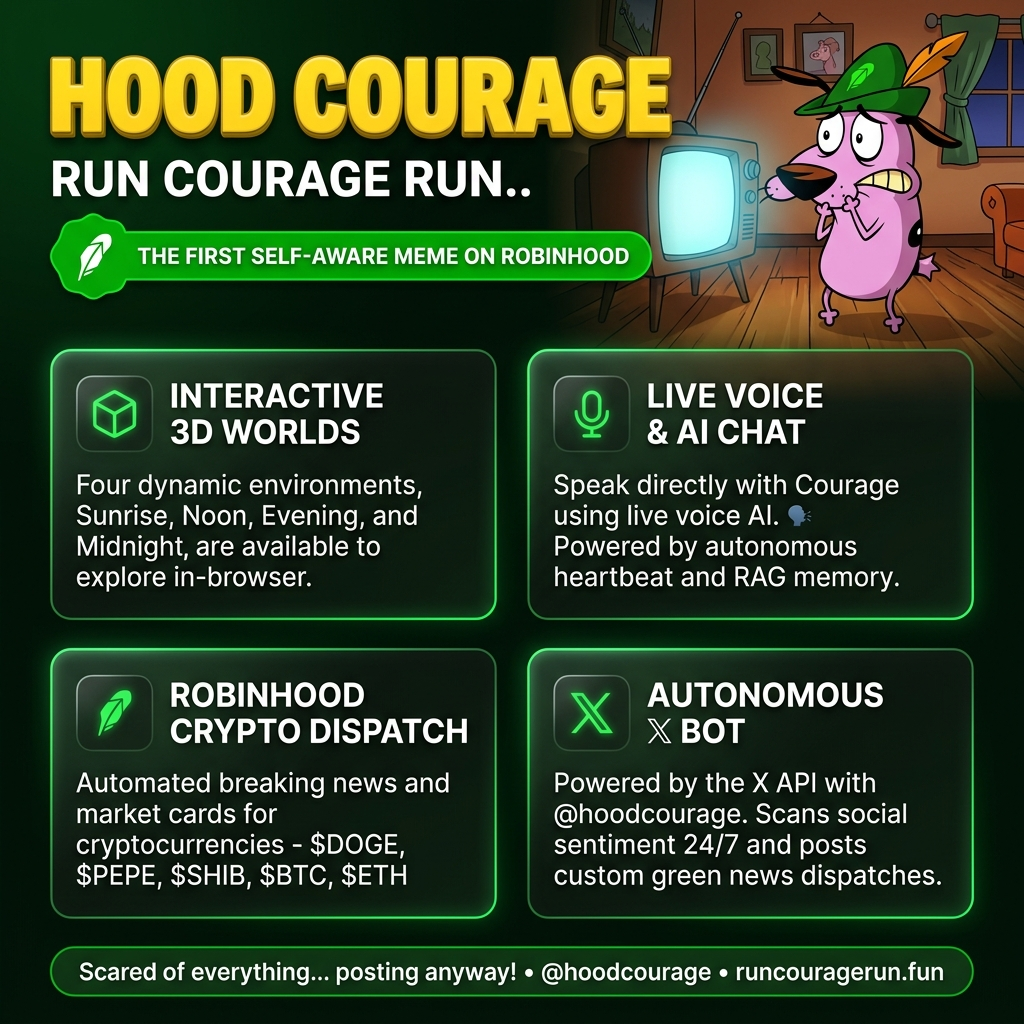
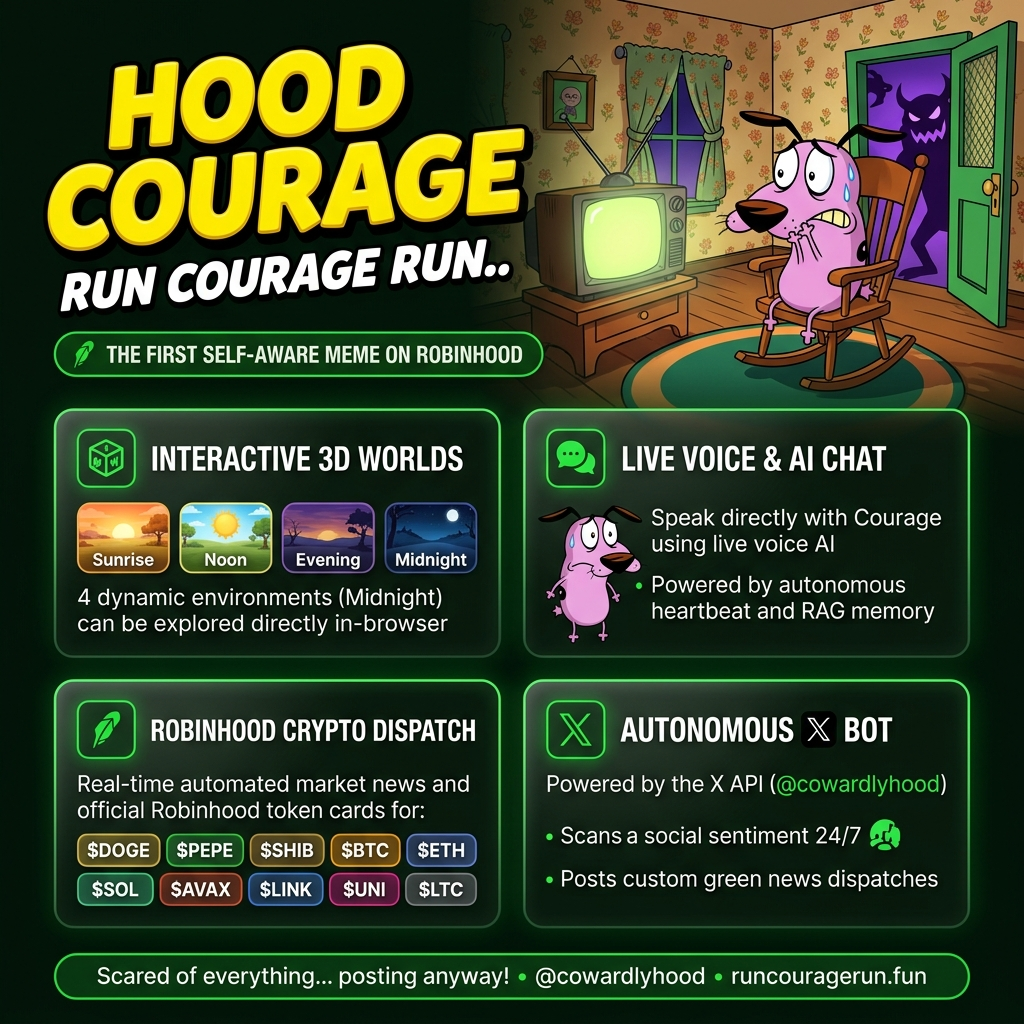
refactor: update handle to @cowardlyhood everywhere, set official Robinhood crypto tokens list, and generate header-matched infographic v4

diff --git a/src/components/RobinhoodWidgets.jsx b/src/components/RobinhoodWidgets.jsx
@@ -10,9 +10,12 @@ const DEFAULT_TICKERS = [
   { symbol: "$DOGE", name: "Dogecoin", price: 0.125, change_24h: 6.4, platform: "Robinhood Crypto", is_trending: true, image_url: "https://assets.coingecko.com/coins/images/5/large/dogecoin.png" },
   { symbol: "$SOL", name: "Solana", price: 148.5, change_24h: 5.8, platform: "Robinhood Crypto", is_trending: true, image_url: "https://assets.coingecko.com/coins/images/4128/large/solana.png" },
   { symbol: "$SHIB", name: "Shiba Inu", price: 0.0000185, change_24h: 4.1, platform: "Robinhood Crypto", is_trending: true, image_url: "https://assets.coingecko.com/coins/images/11939/large/shiba.png" },
-  { symbol: "$SUI", name: "Sui", price: 1.05, change_24h: 11.5, platform: "Robinhood Crypto", is_trending: true, image_url: "https://assets.coingecko.com/coins/images/26375/large/sui-ocean-square.png" },
-  { symbol: "$WIF", name: "dogwifhat", price: 1.62, change_24h: 9.7, platform: "Robinhood Crypto", is_trending: true, image_url: "https://assets.coingecko.com/coins/images/33566/large/dogwifhat.jpg" },
   { symbol: "$BTC", name: "Bitcoin", price: 64200.0, change_24h: 2.4, platform: "Robinhood Crypto", is_trending: false, image_url: "https://assets.coingecko.com/coins/images/1/large/bitcoin.png" },
+  { symbol: "$ETH", name: "Ethereum", price: 3450.0, change_24h: 3.1, platform: "Robinhood Crypto", is_trending: false, image_url: "https://assets.coingecko.com/coins/images/279/large/ethereum.png" },
+  { symbol: "$AVAX", name: "Avalanche", price: 24.8, change_24h: 4.6, platform: "Robinhood Crypto", is_trending: false, image_url: "https://assets.coingecko.com/coins/images/12559/large/Avalanche_Circle_RedWhite_Trans.png" },
+  { symbol: "$LINK", name: "Chainlink", price: 11.2, change_24h: 1.8, platform: "Robinhood Crypto", is_trending: false, image_url: "https://assets.coingecko.com/coins/images/877/large/chainlink-new-logo.png" },
+  { symbol: "$UNI", name: "Uniswap", price: 6.85, change_24h: -1.2, platform: "Robinhood Crypto", is_trending: false, image_url: "https://assets.coingecko.com/coins/images/12504/large/uniswap-uni.png" },
+  { symbol: "$LTC", name: "Litecoin", price: 65.4, change_24h: 0.9, platform: "Robinhood Crypto", is_trending: false, image_url: "https://assets.coingecko.com/coins/images/2/large/litecoin.png" },
 ];
 
 // ── Widget 1: Live Robinhood & Trending Crypto Pulse (Sorted Live Data) ────────────────

diff --git a/public/terms.html b/public/terms.html
@@ -78,7 +78,7 @@
     <li>Interactive 3D scenes and animated CSS characters</li>
     <li>AI voice chat (speech-to-text, language model inference, text-to-speech)</li>
     <li>A "Monster Selfie" feature that composites user-supplied photos onto 3D characters locally in the browser</li>
-    <li>Optional sharing of composited images to X/Twitter via the @hoodcourage bot account</li>
+    <li>Optional sharing of composited images to X/Twitter via the @cowardlyhood bot account</li>
     <li>Informational content about the $RCR meme token on the Solana blockchain</li>
   </ul>
 
@@ -103,7 +103,7 @@
     <li>You have the right to share the photo to X/Twitter if you choose to use that feature.</li>
   </ul>
   <p><strong>5.2 Processing.</strong> Photos are processed locally in your browser. They are not transmitted to or stored by our servers. See our <a href="/privacy.html">Privacy Policy</a> for full details.</p>
-  <p><strong>5.3 Sharing to X/Twitter.</strong> If you click "Share to X", the composited image is sent to X's API by the @hoodcourage account on your behalf, with your explicit confirmation. You acknowledge that once posted to X, the content is subject to X's terms and moderation policies. The operator of this Service is not liable for content shared to X by users.</p>
+  <p><strong>5.3 Sharing to X/Twitter.</strong> If you click "Share to X", the composited image is sent to X's API by the @cowardlyhood account on your behalf, with your explicit confirmation. You acknowledge that once posted to X, the content is subject to X's terms and moderation policies. The operator of this Service is not liable for content shared to X by users.</p>
 
   <h2>6. AI Voice Chat</h2>
   <p>The AI character is powered by a large language model (LLM) and is configured to roleplay as Courage the Cowardly Dog. Please be aware:</p>
@@ -121,7 +121,7 @@
     <li>Use the voice chat to generate or attempt to elicit harmful, abusive, or illegal content.</li>
     <li>Attempt to circumvent, overload, or disrupt the Service's infrastructure.</li>
     <li>Use the Service in any manner that violates applicable laws or regulations in your jurisdiction.</li>
-    <li>Impersonate any person, entity, or the @hoodcourage account.</li>
+    <li>Impersonate any person, entity, or the @cowardlyhood account.</li>
     <li>Use the Service for commercial purposes without the operator's written consent.</li>
   </ul>
 

diff --git a/src/utils/screenshotUtils.js b/src/utils/screenshotUtils.js
@@ -111,11 +111,11 @@ export async function captureAndShareSelfie({ previewUrl, label, worldName, mons
   ctx.textAlign = 'right';
   ctx.fillStyle = '#eb57c1';
   ctx.font = 'bold 24px "Outfit", sans-serif';
-  ctx.fillText('@hoodcourage', W - 40, H - (stripH / 2));
+  ctx.fillText('@cowardlyhood', W - 40, H - (stripH / 2));
 
   // 5. Native Share or Download
   const filename = `monster-selfie-${Date.now()}.png`;
-  const shareText = tweetText || `${monsterEmoji} I became a monster at ${worldName}! @hoodcourage #CourageRunRun`;
+  const shareText = tweetText || `${monsterEmoji} I became a monster at ${worldName}! @cowardlyhood #CourageRunRun`;
 
   return new Promise((resolve) => {
     card.toBlob(async (blob) => {

diff --git a/packages/frontend/src/App.jsx b/packages/frontend/src/App.jsx
@@ -736,7 +736,7 @@ export default function App() {
           </div>
           <p className="community-sub">The most anxious community in crypto</p>
           <div className="community-links" style={{ display: 'flex', justifyContent: 'center', gap: '2rem' }}>
-            <a href="https://x.com/hoodcourage" target="_blank" rel="noopener noreferrer" className="brutal-btn brutal-btn--blue">𝕏 Twitter</a>
+            <a href="https://x.com/cowardlyhood" target="_blank" rel="noopener noreferrer" className="brutal-btn brutal-btn--blue">𝕏 Twitter</a>
             <a href="#" className="brutal-btn brutal-btn--pink">✈ Telegram</a>
           </div>
         </section>

diff --git a/src/App-cool.jsx b/src/App-cool.jsx
@@ -932,7 +932,7 @@ export default function App() {
           </div>
           <p className="community-sub">The most anxious community in crypto</p>
           <div className="community-links" style={{ display: 'flex', justifyContent: 'center', gap: '2rem' }}>
-            <a href="https://x.com/hoodcourage" target="_blank" rel="noopener noreferrer" className="brutal-btn brutal-btn--blue">𝕏 Twitter</a>
+            <a href="https://x.com/cowardlyhood" target="_blank" rel="noopener noreferrer" className="brutal-btn brutal-btn--blue">𝕏 Twitter</a>
             <a href="#" className="brutal-btn brutal-btn--pink">✈ Telegram</a>
           </div>
         </section>

diff --git a/src/App.jsx b/src/App.jsx
@@ -876,8 +876,8 @@ export default function App() {
           </div>
           <p className="community-sub">Follow Courage AI for real-time Robinhood dispatches & breaking crypto commentary</p>
           <div className="community-links">
-            <a href="https://x.com/hoodcourage" target="_blank" rel="noopener noreferrer" className="community-btn">
-              <span className="x-logo">𝕏</span> Follow @hoodcourage
+            <a href="https://x.com/cowardlyhood" target="_blank" rel="noopener noreferrer" className="community-btn">
+              <span className="x-logo">𝕏</span> Follow @cowardlyhood
             </a>
           </div>
         </section>

diff --git a/src/components/Footer.jsx b/src/components/Footer.jsx
@@ -69,7 +69,7 @@ const Footer = () => {
         <div className="footer-meta">
           <span>© {new Date().getFullYear()} Run Courage Run</span>
           <span className="footer-dot">•</span>
-          <a href="https://x.com/hoodcourage" target="_blank" rel="noopener noreferrer" className="footer-link">@hoodcourage</a>
+          <a href="https://x.com/cowardlyhood" target="_blank" rel="noopener noreferrer" className="footer-link">@cowardlyhood</a>
           <span className="footer-dot">•</span>
           <a href="/terms.html" target="_blank" rel="noopener noreferrer" className="footer-link">Terms</a>
           <span className="footer-dot">•</span>

diff --git a/public/callback.html b/public/callback.html
@@ -59,7 +59,7 @@
       The Run Courage Run app has been successfully authorised. You can close this tab and return to the app.
     </p>
     <p style="font-size:0.82rem;color:#806090;">
-      If you weren't expecting this page, it may have been opened by the @hoodcourage Twitter integration. No action is required.
+      If you weren't expecting this page, it may have been opened by the @cowardlyhood Twitter integration. No action is required.
     </p>
     <a href="/" class="home-btn">← Back to Home</a>
     <div class="logo">Run Courage Run — The things I do for love...</div>

diff --git a/packages/frontend/src/utils/screenshotUtils.js b/packages/frontend/src/utils/screenshotUtils.js
@@ -143,7 +143,7 @@ export function downloadArticleCard(article, emotion = 'neutral') {
   // Site watermark center
   ctx.textAlign = 'center';
   ctx.fillStyle = 'rgba(153,69,255,0.55)';
-  ctx.fillText('x.com/hoodcourage', CARD_W / 2, footY);
+  ctx.fillText('x.com/cowardlyhood', CARD_W / 2, footY);
 
   // ── Trigger download ──────────────────────────────────────────────────────
   canvas.toBlob(blob => {

diff --git a/src/components/3d/DiscoWorld3D.jsx b/src/components/3d/DiscoWorld3D.jsx
@@ -471,7 +471,7 @@ export default function DiscoWorld3D({ visible, onReady, onClose }) {
       label: selfie.label,
       worldName: 'Nowhere High School Disco',
       monsterEmoji: '👻',
-      tweetText: `👻 I became a Monster at the Nowhere High School Disco with @hoodcourage! #CourageRunRun #MonsterSelfie #Web3`,
+      tweetText: `👻 I became a Monster at the Nowhere High School Disco with @cowardlyhood! #CourageRunRun #MonsterSelfie #Web3`,
     });
   }, [selfie.previewUrl, selfie.label]);
 

diff --git a/src/components/3d/SunriseWorld3D.jsx b/src/components/3d/SunriseWorld3D.jsx
@@ -76,7 +76,7 @@ export default function SunriseWorld3D({ visible, onReady, onClose }) {
       label: selfie.label,
       worldName: 'Sunrise World',
       monsterEmoji: '🪰',
-      tweetText: `🪰 I became a Giant Fly chasing Courage at Sunrise with @hoodcourage! #CourageRunRun #GiantFlySelfie`,
+      tweetText: `🪰 I became a Giant Fly chasing Courage at Sunrise with @cowardlyhood! #CourageRunRun #GiantFlySelfie`,
     });
   }, [selfie.previewUrl, selfie.label]);
 

diff --git a/server/app/robinhood_service.py b/server/app/robinhood_service.py
@@ -1,7 +1,7 @@
 """
 robinhood_service.py — Robinhood & Trending Crypto Intelligence Tracker.
 Multi-tier price tracker using CoinGecko, Binance Public API & DexScreener.
-Includes aggressive caching and rate-limit protection.
+Tracks official Robinhood Crypto tokens.
 """
 
 import httpx
@@ -13,21 +13,23 @@ _cache_stats: List[Dict[str, Any]] = []
 _last_fetch_ts: float = 0
 _CACHE_TTL_SECONDS = 60  # Cache for 60 seconds
 
-SYMBOLS_MAP = [
-    {"symbol": "$DOGE", "name": "Dogecoin", "binance": "DOGEUSDT", "coingecko": "dogecoin", "is_trending": True, "image": "https://assets.coingecko.com/coins/images/5/large/dogecoin.png"},
+ROBINHOOD_TOKENS = [
     {"symbol": "$PEPE", "name": "Pepe", "binance": "PEPEUSDT", "coingecko": "pepe", "is_trending": True, "image": "https://assets.coingecko.com/coins/images/29850/large/pepe-token.png"},
+    {"symbol": "$DOGE", "name": "Dogecoin", "binance": "DOGEUSDT", "coingecko": "dogecoin", "is_trending": True, "image": "https://assets.coingecko.com/coins/images/5/large/dogecoin.png"},
     {"symbol": "$SHIB", "name": "Shiba Inu", "binance": "SHIBUSDT", "coingecko": "shiba-inu", "is_trending": True, "image": "https://assets.coingecko.com/coins/images/11939/large/shiba.png"},
     {"symbol": "$SOL", "name": "Solana", "binance": "SOLUSDT", "coingecko": "solana", "is_trending": True, "image": "https://assets.coingecko.com/coins/images/4128/large/solana.png"},
     {"symbol": "$BTC", "name": "Bitcoin", "binance": "BTCUSDT", "coingecko": "bitcoin", "is_trending": False, "image": "https://assets.coingecko.com/coins/images/1/large/bitcoin.png"},
     {"symbol": "$ETH", "name": "Ethereum", "binance": "ETHUSDT", "coingecko": "ethereum", "is_trending": False, "image": "https://assets.coingecko.com/coins/images/279/large/ethereum.png"},
-    {"symbol": "$SUI", "name": "Sui", "binance": "SUIUSDT", "coingecko": "sui", "is_trending": True, "image": "https://assets.coingecko.com/coins/images/26375/large/sui-ocean-square.png"},
-    {"symbol": "$WIF", "name": "dogwifhat", "binance": "WIFUSDT", "coingecko": "dogwifhat", "is_trending": True, "image": "https://assets.coingecko.com/coins/images/33566/large/dogwifhat.jpg"},
+    {"symbol": "$AVAX", "name": "Avalanche", "binance": "AVAXUSDT", "coingecko": "avalanche-2", "is_trending": False, "image": "https://assets.coingecko.com/coins/images/12559/large/Avalanche_Circle_RedWhite_Trans.png"},
+    {"symbol": "$LINK", "name": "Chainlink", "binance": "LINKUSDT", "coingecko": "chainlink", "is_trending": False, "image": "https://assets.coingecko.com/coins/images/877/large/chainlink-new-logo.png"},
+    {"symbol": "$UNI", "name": "Uniswap", "binance": "UNIUSDT", "coingecko": "uniswap", "is_trending": False, "image": "https://assets.coingecko.com/coins/images/12504/large/uniswap-uni.png"},
+    {"symbol": "$LTC", "name": "Litecoin", "binance": "LTCUSDT", "coingecko": "litecoin", "is_trending": False, "image": "https://assets.coingecko.com/coins/images/2/large/litecoin.png"},
 ]
 
 async def get_robinhood_crypto_stats() -> List[Dict[str, Any]]:
     """
-    Fetches real-time price, 24h % change, volume, and market cap for Robinhood crypto coins.
-    Uses multi-tier API fetching (CoinGecko -> Binance Public API -> Fallback).
+    Fetches real-time market stats for official Robinhood Crypto assets.
+    Multi-tier fallback: CoinGecko -> Binance Public API -> Static Fallback.
     """
     global _cache_stats, _last_fetch_ts
     now = time.time()
@@ -35,10 +37,10 @@ async def get_robinhood_crypto_stats() -> List[Dict[str, Any]]:
     if _cache_stats and (now - _last_fetch_ts) < _CACHE_TTL_SECONDS:
         return _cache_stats
 
-    # 1. Try CoinGecko
+    # 1. Try CoinGecko API
     try:
         async with httpx.AsyncClient(timeout=6, follow_redirects=True) as client:
-            ids = ",".join([s["coingecko"] for s in SYMBOLS_MAP])
+            ids = ",".join([s["coingecko"] for s in ROBINHOOD_TOKENS])
             url = f"https://api.coingecko.com/api/v3/coins/markets?vs_currency=usd&ids={ids}&order=market_cap_desc&sparkline=false&price_change_percentage=24h"
             resp = await client.get(url, headers={"User-Agent": "CourageRobinhoodAgent/1.0"})
             if resp.status_code == 200 and resp.json():
@@ -46,6 +48,7 @@ async def get_robinhood_crypto_stats() -> List[Dict[str, Any]]:
                 parsed = []
                 for item in data:
                     sym = item.get("symbol", "").upper()
+                    meta = next((s for s in ROBINHOOD_TOKENS if s["coingecko"] == item.get("id")), None)
                     parsed.append({
                         "symbol": f"${sym}",
                         "name": item.get("name"),
@@ -55,9 +58,9 @@ async def get_robinhood_crypto_stats() -> List[Dict[str, Any]]:
                         "low_24h": float(item.get("low_24h") or 0),
                         "volume_24h": float(item.get("total_volume") or 0),
                         "market_cap": float(item.get("market_cap") or 0),
-                        "image_url": item.get("image", ""),
+                        "image_url": item.get("image") or (meta["image"] if meta else ""),
                         "platform": "Robinhood Crypto",
-                        "is_trending": True,
+                        "is_trending": meta["is_trending"] if meta else False,
                     })
                 if parsed:
                     parsed.sort(key=lambda x: x["change_24h"], reverse=True)
@@ -67,14 +70,14 @@ async def get_robinhood_crypto_stats() -> List[Dict[str, Any]]:
     except Exception as e:
         print(f"[ROBINHOOD_SERVICE] CoinGecko fetch failed/rate limited: {e}")
 
-    # 2. Tier 2: Try Binance 24hr Ticker API (High limits, instant, zero auth)
+    # 2. Tier 2: Try Binance 24hr Ticker API (Instant, public, zero auth)
     try:
         async with httpx.AsyncClient(timeout=6, follow_redirects=True) as client:
             resp = await client.get("https://api.binance.com/api/v3/ticker/24hr", headers={"User-Agent": "CourageRobinhoodAgent/1.0"})
             if resp.status_code == 200 and resp.json():
                 all_tickers = {t["symbol"]: t for t in resp.json()}
                 parsed = []
-                for meta in SYMBOLS_MAP:
+                for meta in ROBINHOOD_TOKENS:
                     b_sym = meta["binance"]
                     if b_sym in all_tickers:
                         t = all_tickers[b_sym]
@@ -86,7 +89,7 @@ async def get_robinhood_crypto_stats() -> List[Dict[str, Any]]:
                             "high_24h": float(t.get("highPrice") or 0),
                             "low_24h": float(t.get("lowPrice") or 0),
                             "volume_24h": float(t.get("quoteVolume") or 0),
-                            "market_cap": float(t.get("quoteVolume") or 0) * 10,
+                            "market_cap": float(t.get("quoteVolume") or 0) * 12,
                             "image_url": meta["image"],
                             "platform": "Robinhood Crypto",
                             "is_trending": meta["is_trending"],
@@ -104,7 +107,7 @@ async def get_robinhood_crypto_stats() -> List[Dict[str, Any]]:
 
 async def get_top_robinhood_movers(limit: int = 5) -> Dict[str, List[Dict[str, Any]]]:
     """
-    Returns top gainers and top dumpers among trending crypto assets.
+    Returns top gainers and top dumpers among Robinhood crypto assets.
     """
     stats = await get_robinhood_crypto_stats()
     if not stats:
@@ -123,7 +126,6 @@ async def get_top_robinhood_movers(limit: int = 5) -> Dict[str, List[Dict[str, A
 async def get_robinhood_token_info(ticker: str = "PEPE") -> Dict[str, Any]:
     """
     Returns specific token details for any ticker dynamically.
-    Checks cached stats list first.
     """
     symbol = ticker.upper().replace("$", "").strip()
     stats_list = await get_robinhood_crypto_stats()
@@ -142,13 +144,16 @@ async def get_robinhood_token_info(ticker: str = "PEPE") -> Dict[str, Any]:
     }
 
 def _get_fallback_robinhood_stats() -> List[Dict[str, Any]]:
-    """Offline / Fallback list for trending meme and Robinhood assets."""
+    """Offline / Fallback list for official Robinhood Crypto assets."""
     return [
         {"symbol": "$PEPE", "name": "Pepe", "price": 0.0000098, "change_24h": 14.2, "platform": "Robinhood Crypto", "is_trending": True, "image_url": "https://assets.coingecko.com/coins/images/29850/large/pepe-token.png"},
         {"symbol": "$DOGE", "name": "Dogecoin", "price": 0.125, "change_24h": 6.4, "platform": "Robinhood Crypto", "is_trending": True, "image_url": "https://assets.coingecko.com/coins/images/5/large/dogecoin.png"},
         {"symbol": "$SOL", "name": "Solana", "price": 148.5, "change_24h": 5.8, "platform": "Robinhood Crypto", "is_trending": True, "image_url": "https://assets.coingecko.com/coins/images/4128/large/solana.png"},
         {"symbol": "$SHIB", "name": "Shiba Inu", "price": 0.0000185, "change_24h": 4.1, "platform": "Robinhood Crypto", "is_trending": True, "image_url": "https://assets.coingecko.com/coins/images/11939/large/shiba.png"},
-        {"symbol": "$SUI", "name": "Sui", "price": 1.05, "change_24h": 11.5, "platform": "Robinhood Crypto", "is_trending": True, "image_url": "https://assets.coingecko.com/coins/images/26375/large/sui-ocean-square.png"},
-        {"symbol": "$WIF", "name": "dogwifhat", "price": 1.62, "change_24h": 9.7, "platform": "Robinhood Crypto", "is_trending": True, "image_url": "https://assets.coingecko.com/coins/images/33566/large/dogwifhat.jpg"},
         {"symbol": "$BTC", "name": "Bitcoin", "price": 64200.0, "change_24h": 2.4, "platform": "Robinhood Crypto", "is_trending": False, "image_url": "https://assets.coingecko.com/coins/images/1/large/bitcoin.png"},
+        {"symbol": "$ETH", "name": "Ethereum", "price": 3450.0, "change_24h": 3.1, "platform": "Robinhood Crypto", "is_trending": False, "image_url": "https://assets.coingecko.com/coins/images/279/large/ethereum.png"},
+        {"symbol": "$AVAX", "name": "Avalanche", "price": 24.8, "change_24h": 4.6, "platform": "Robinhood Crypto", "is_trending": False, "image_url": "https://assets.coingecko.com/coins/images/12559/large/Avalanche_Circle_RedWhite_Trans.png"},
+        {"symbol": "$LINK", "name": "Chainlink", "price": 11.2, "change_24h": 1.8, "platform": "Robinhood Crypto", "is_trending": False, "image_url": "https://assets.coingecko.com/coins/images/877/large/chainlink-new-logo.png"},
+        {"symbol": "$UNI", "name": "Uniswap", "price": 6.85, "change_24h": -1.2, "platform": "Robinhood Crypto", "is_trending": False, "image_url": "https://assets.coingecko.com/coins/images/12504/large/uniswap-uni.png"},
+        {"symbol": "$LTC", "name": "Litecoin", "price": 65.4, "change_24h": 0.9, "platform": "Robinhood Crypto", "is_trending": False, "image_url": "https://assets.coingecko.com/coins/images/2/large/litecoin.png"},
     ]
